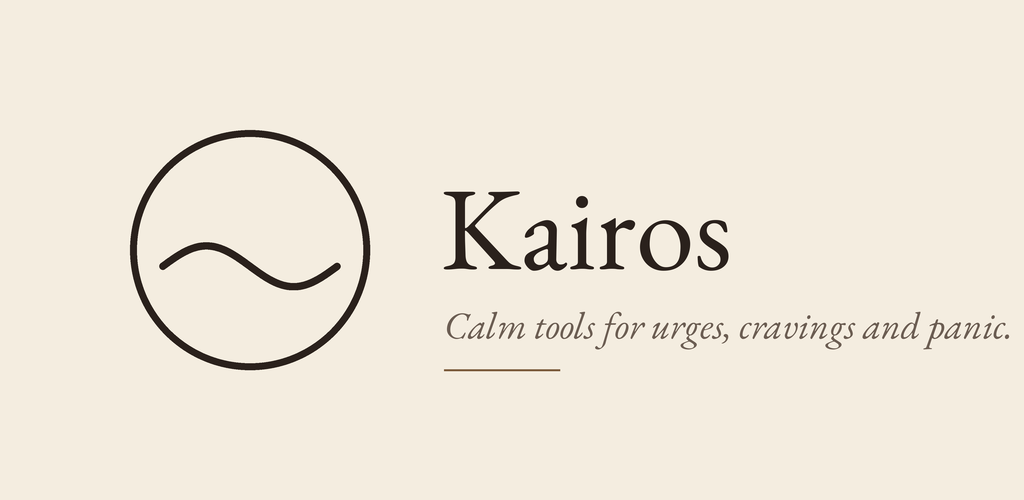
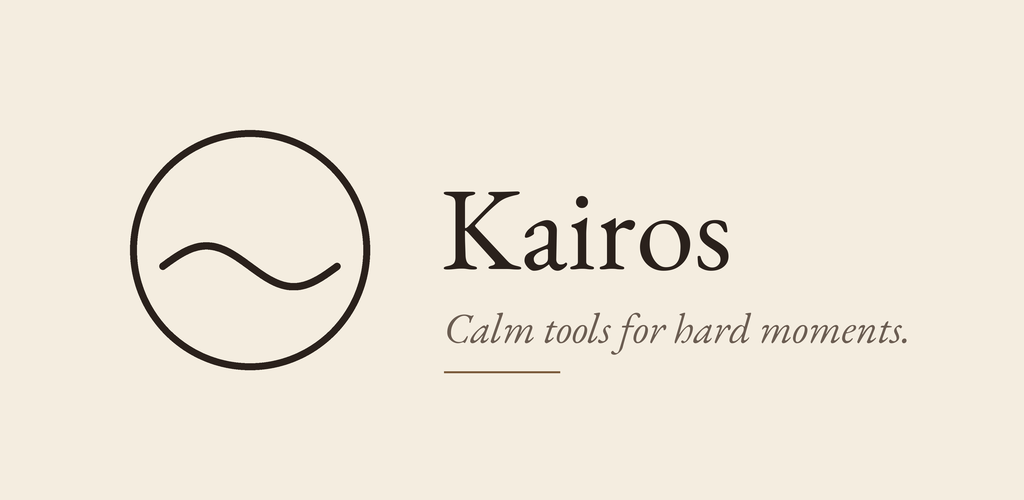
Tagline: 'Calm tools for hard moments.'
Feature graphic, store short description, README and privacy policy.

Claude-Session: https://claude.ai/code/session_01FmhBVgnFpi4BBqHLvb8ZHr

Changed region(s): [[0.4375, 0.63, 1.0, 0.69], [0.4375, 0.72, 0.5625, 0.75]]

diff --git a/docs/play-store/privacy-policy.md b/docs/play-store/privacy-policy.md
@@ -6,7 +6,7 @@ title: Kairos privacy policy
 
 *Last updated: 20 November 2026*
 
-Kairos is a free app with calm tools for urges, cravings and panic. It is made by
+Kairos is a free app with calm tools for hard moments. It is made by
 ToolCrate. This policy explains what happens to your information. The short version:
 **everything stays on your phone, unless you choose to back it up to your own Google Drive,
 and then it is encrypted with a passphrase only you know.**

diff --git a/docs/play-store/store-listing.md b/docs/play-store/store-listing.md
@@ -6,7 +6,7 @@ Rules for all store text: no medical claims, no diagnosis, no "treats", "cures",
 **App name** (max 30): `Kairos`
 
 **Short description** (max 80):
-`Calm tools for urges, cravings and panic. Free, offline, no ads, no accounts.`
+`Calm tools for hard moments. Free, offline, no ads, no accounts.`
 
 **Full description** (max 4000):
 

diff --git a/README.md b/README.md
@@ -1,6 +1,6 @@
 # Kairos
 
-Calm tools for urges, cravings and panic. Free, offline, no ads, no accounts.
+Calm tools for hard moments. Free, offline, no ads, no accounts.
 
 - **Urge mode** — a 10 or 20 minute countdown with a calm message, a short breathing
   guide and a few distractions. Afterwards, note whether the urge passed.
